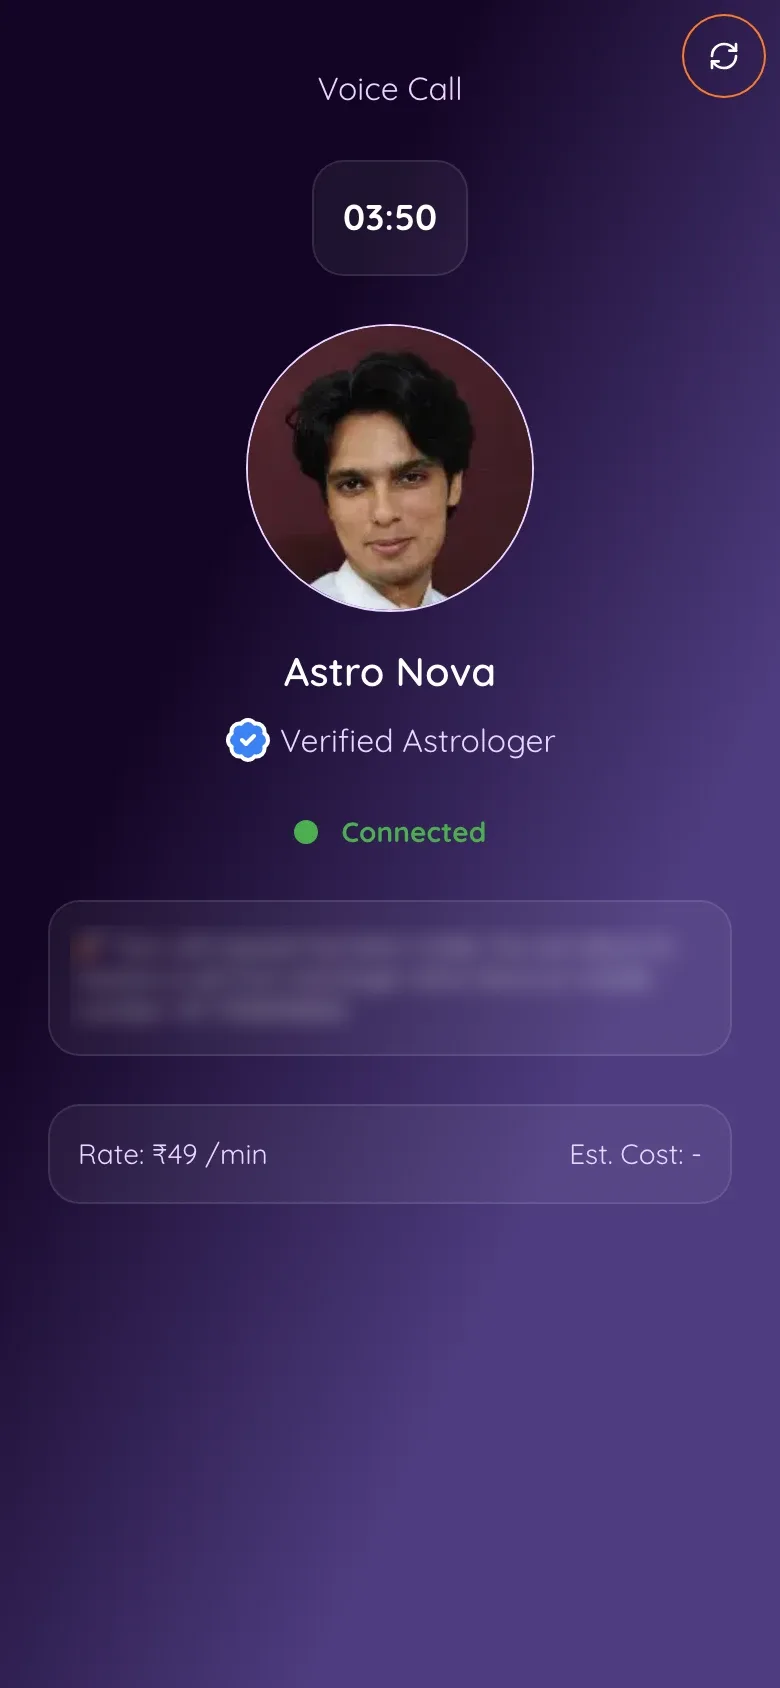
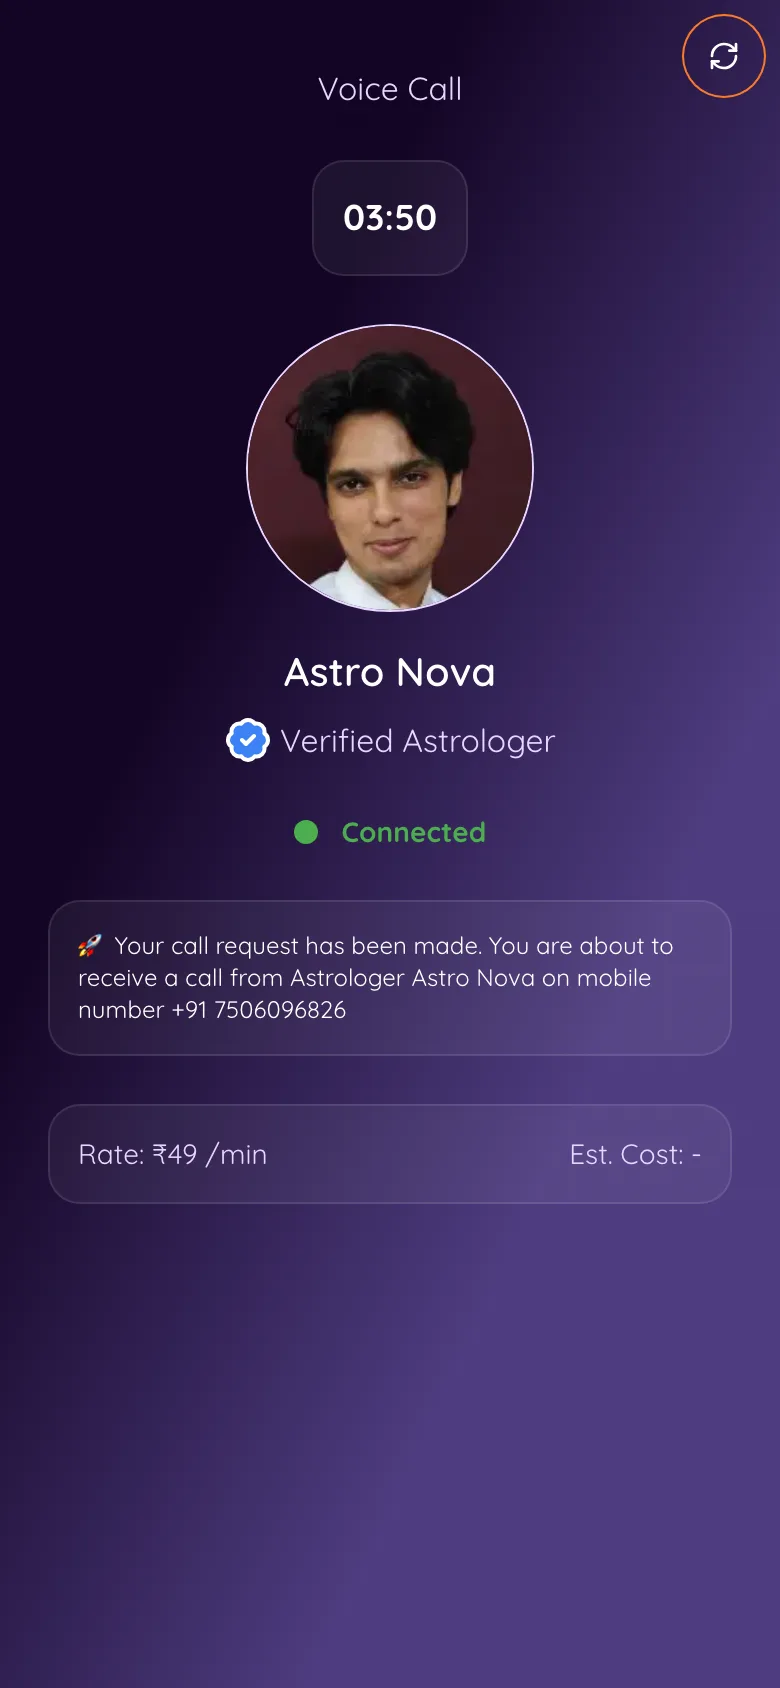
feat: Prana desktop screenshots and full mobile flow
14 screenshots from the Prana app and site: astrologer list, profile, chat,
voice call, chat list, wallet ledger and recharge, and customer profile.

Claude-Session: https://claude.ai/code/session_01LQqzYryCzncZBiHJ7Rf4qr

Changed region(s): [[0.0923, 0.5545, 0.8615, 0.6161]]

diff --git a/src/data/projects.ts b/src/data/projects.ts
@@ -168,13 +168,23 @@ export const projects: Project[] = [
     timeline: "Jul 2025 – Present",
     link: "https://pranaindia.com",
     linkLabel: "Visit pranaindia.com",
-    desktop: [],
+    desktop: shots("prana", "desktop", [
+      "Our astrologers: all trained by Pt. C.K. Sharma, filterable by concern",
+      "Astrologer profile with ratings, consultations and session pricing",
+      "A consultation thread with images and voice notes",
+      "A voice call in progress, connected through Exotel",
+      "My Chats: every past consultation",
+      "Wallet ledger: top-ups and per-minute chat and call debits",
+      "Customer profile with birth details and wallet balance",
+    ]),
     mobile: shots("prana", "mobile", [
       "Start: pick what's on your mind",
       "Astrologers, filtered by concern",
       "Astrologer profile with ratings, consultations and session pricing",
       "A live chat consultation with session timer and per-minute rate",
       "A voice call, connected through Exotel",
+      "My Chats on mobile",
+      "Recharging the wallet",
       "Chat history after a session ends",
     ]),
     sections: [
